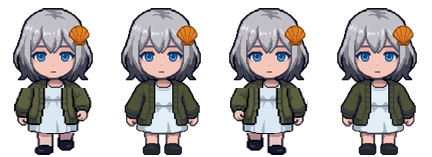
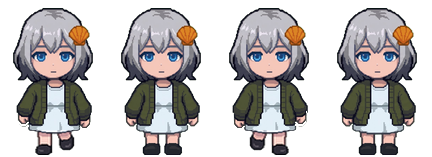
정면 걷기: 몸은 다시 정지 그림 그대로, 팔 흔들림은 정지 그림의 소매 끝·손을 2px 위아래로 옮겨 만듦
편집 그림의 몸을 쓰면 목 아래에서 어깨·머리카락 끝이 어긋나 보였음.

Claude-Session: https://claude.ai/code/session_01MBgVgKbFxkEXND4zuEcjdV

Changed region(s): [[0.5116, 0.5605, 0.7222, 0.9936], [0.0301, 0.5605, 0.2106, 0.9936]]

diff --git a/tools/sprite_cleanup/compose_walk.py b/tools/sprite_cleanup/compose_walk.py
@@ -22,7 +22,50 @@ def hem_row(a):
     return int(np.nonzero(white.sum(1) >= 6)[0].max())
 
 
-def main(out_dir, name, idle_name, legs_src, fps=6, body=False):
+def swing_hands(img, sa, s_hem, amount):
+    """정지 그림 sa에서 양손(피부색 덩어리, 몸 양옆 밑단 근처)을 찾아 img에서 옮긴다.
+    amount > 0: 화면 오른쪽 손이 아래로(앞으로), 왼쪽 손이 위로(소매 속으로). 음수면 반대."""
+    from scipy import ndimage as ndi
+    a = sa.astype(int)
+    al = a[..., 3] > 128
+    skin = al & (a[..., 0] > 200) & (a[..., 1] > 150) & (a[..., 2] > 130) & (a[..., 0] - a[..., 2] > 25)
+    skin[: s_hem - 40] = False
+    skin[s_hem + 3:] = False
+    lab, n = ndi.label(skin)
+    if n < 2:
+        return img
+    sizes = ndi.sum(np.ones(lab.shape), lab, range(1, n + 1))
+    blobs = sorted(np.argsort(sizes)[-2:] + 1, key=lambda i: np.nonzero(lab == i)[1].mean())
+    out = img.copy()
+    white = al & (a[..., 0] > 200) & (a[..., 1] > 200) & (a[..., 2] > 200)
+    for side, i in zip((-1, 1), blobs):            # 왼쪽 손, 오른쪽 손
+        ys, xs = np.nonzero(lab == i)
+        y0, y1 = ys.min() - 8, ys.max() + 3          # 소매 끝부분 + 손 (외곽선 포함)
+        x0, x1 = xs.min() - 2, xs.max() + 3
+        m = np.zeros(al.shape, bool)
+        m[y0:y1, x0:x1] = True
+        m &= al & ~white                             # 원피스는 빼고 소매·손·외곽선만
+        dy = amount * side                           # 오른쪽 손: +amount(아래), 왼쪽: -amount(위)
+        cy, cx = np.nonzero(m)
+        px = sa[cy, cx].copy()
+        out[cy, cx] = 0
+        ny = cy + dy
+        ok = (ny >= 0) & (ny < out.shape[0])
+        out[ny[ok], cx[ok]] = px[ok]
+        if dy > 0:   # 아래로 내려간 덩어리 위 틈은 덩어리 윗줄을 늘려 메움 (소매가 길어짐)
+            for k in range(dy):
+                row = cy == y0 + 0
+                rr = np.nonzero(m[y0])[0]
+                out[y0 + k, rr] = sa[y0, rr]
+        else:        # 위로 올라간 자리 아래는 비워 둠 (원래 원피스였던 곳은 다시 그림)
+            pass
+        keep = white[y0:y1 + 4, x0:x1]
+        reg = out[y0:y1 + 4, x0:x1]
+        reg[keep & (reg[..., 3] == 0)] = sa[y0:y1 + 4, x0:x1][keep & (reg[..., 3] == 0)]
+    return out
+
+
+def main(out_dir, name, idle_name, legs_src, fps=6, body=False, hands=0):
     out = Path(out_dir)
     meta = json.loads((out / "frames.json").read_text(encoding="utf-8"))
     cw, ch = meta["cell"]
@@ -125,11 +168,17 @@ def main(out_dir, name, idle_name, legs_src, fps=6, body=False):
                 step[y][xs[ok]] = tgt
         top_cut = chin
 
+    if hands:
+        # 팔 흔들림: 정지 그림의 손만 옮김 (화면 오른쪽 손 = 앞으로 → 아래로, 왼쪽 손 = 뒤로 → 소매 속으로 위로)
+        step = swing_hands(step, sa, s_hem, hands)
+
     # 반대 발: 다리(와 몸) 부분만 좌우 반전 (몸 가운데 기준)
     other = step.copy()
     xs = np.nonzero((step[top_cut:, :, 3] > 128).any(0))[0]
     a0, a1 = xs[0], xs[-1] + 1
     other[top_cut:, a0:a1] = step[top_cut:, a0:a1][:, ::-1]
+    if hands:   # 반대 발 칸은 손 흔들림도 반대로 (다리만 뒤집었으므로 손은 따로)
+        other[:top_cut] = swing_hands(sa.copy(), sa, s_hem, -hands)[:top_cut]
 
     frames = [Image.fromarray(step, "RGBA"), stand, Image.fromarray(other, "RGBA"), stand]
     sheet = Image.new("RGBA", (cw * 4, ch), (0, 0, 0, 0))

diff --git a/tools/sprite_cleanup/clean_chroma.py b/tools/sprite_cleanup/clean_chroma.py
@@ -301,7 +301,7 @@ def main(cfg_path, out_dir):
     for cw_opt in cfg.get("compose_walks", []):
         from compose_walk import main as compose
         compose(out, cw_opt["name"], cw_opt["idle"], str(Path(cfg_path).parent / cw_opt["legs"]), cw_opt.get("fps", 6),
-                cw_opt.get("body", False))
+                cw_opt.get("body", False), cw_opt.get("hands", 0))
 
 
 def breathe(path, n, cw, ch, idx):
